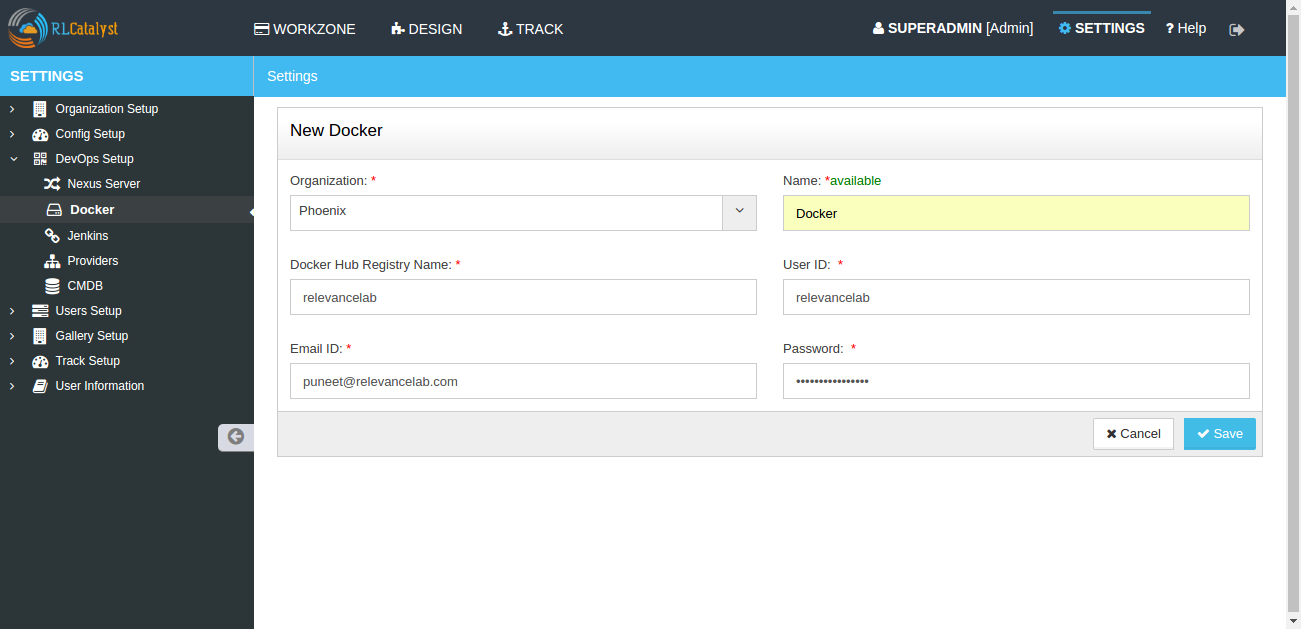
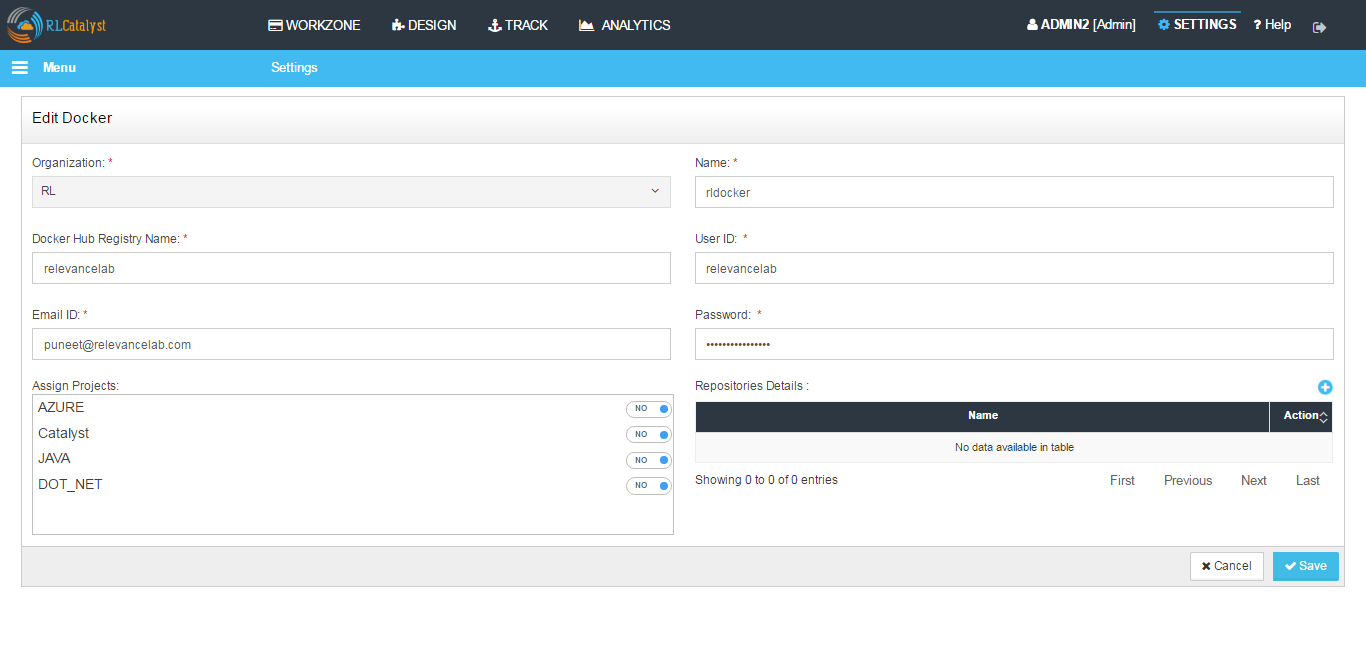
menu text in steps

diff --git a/Catalyst/source/configmanagement.rst b/Catalyst/source/configmanagement.rst
@@ -58,7 +58,7 @@ Docker is all about making it easier to create, deploy, and run applications by 
 You can configure the Docker setup with RLCatalyst. To configure the Docker setup follow the steps below:
 
  * From the main menu click on Settings
- * Once you click on Settings, from the side menu click on Devops Setup
+ * Once you click on Settings, from the side menu click on Devops Roles
  * Click on Docker
  * Click on New button provided 
  * Select the Organization from the Organization drop down list
@@ -67,6 +67,8 @@ You can configure the Docker setup with RLCatalyst. To configure the Docker setu
  * Provide the Docker user ID in the User ID field
  * Provide the email address to connect to the Docker in the Email Id field
  * Enter the Docker password in the Password field
+ * All assigned projects will display in Assign Projects field
+ * Add Repositories Details
 
  .. image:: /images/updated_img/createDocker.png
 
@@ -95,7 +97,7 @@ Jenkins
 Jenkins is CI/CD tool which can be used for build and deployment automation. You can configure the Jenkins setup with RLCatalyst.To configure the Jenkins setup follow the steps below:
 
  * From the main menu click on Settings
- * Once you click on Settings, from the side menu click on DevOps Setup
+ * Once you click on Settings, from the side menu click on DevOps Roles
  * Click on Jenkins
  * Click on New button provided 
  * Select the Organization to which the Jenkins server will be attached to

diff --git a/Catalyst/source/confsetupdefined.rst b/Catalyst/source/confsetupdefined.rst
@@ -33,7 +33,7 @@ Data/File needed for adding a Chef Server account in RLCatalyst
 To configure a new chef server follow the steps below:
 
  * From the main menu click on Settings
- * Once you click on Settings, from the side menu click on Config Setup
+ * Once you click on Settings, from the side menu click on Config Management
  * Click on Chef Server
  * Click on New button provided 
  * Enter the configuration name in the Name field
@@ -172,7 +172,7 @@ If you are using Puppet for your configuration management requirements, configur
 To configure a new puppet server follow the steps below:
 
  * From the main menu click on Settings
- * Once you click on Settings, from the side menu click on Config Setup
+ * Once you click on Settings, from the side menu click on Config Management
  * Click on Puppet Server
  * Click on New button provided 
  * Enter the puppet server name in the Name box
@@ -236,7 +236,7 @@ In an Organization you can create multiple Environments. These environments need
 Follow the steps to setup a new Environment in an Organization:
 
  * From the main menu click on Settings
- * Once you click on Settings, from the side menu click on Organization Setup
+ * Once you click on Settings, from the side menu click on Config Management
  * Click on Environments
  * Click on New button provided
  * Select the Organization from the Organization drop down list

diff --git a/Catalyst/source/orgsetupdefined.rst b/Catalyst/source/orgsetupdefined.rst
@@ -25,7 +25,7 @@ Through Setup & Configuration Wizard:
 Through Menu:
 
  * From the main menu click on Settings
- * Once you click on Settings, from the side menu click on Organization Setup
+ * Once you click on Settings, from the side menu click on Organization Configuration
  * Click Organizations
  * Click on New button provided 
  * In Create Organization page enter Name (Organization Name) and Domain Name (Website Address)
@@ -81,7 +81,7 @@ Through Setup & Configuration Wizard:
  Through Menu:
 
  * From the main menu click on Settings
- * Once you click on Settings, from the side menu click on Organization Setup
+ * Once you click on Settings, from the side menu click on Organization Configuration
  * Click on Business Groups
  * Click on New button provided 
  * Enter the Business Group name in the Business Group name field
@@ -130,7 +130,7 @@ Through Setup & Configuration Wizard:
  Through Menu:
 
  * From the main menu click on Settings
- * Once you click on Settings, from the side menu click on Organization Setup
+ * Once you click on Settings, from the side menu click on Organization Configuration
  * Click on Projects
  * Click on New button provided 
  * Enter the Project name in the Name field

diff --git a/Catalyst/source/providerdefined.rst b/Catalyst/source/providerdefined.rst
@@ -12,7 +12,7 @@ You can configure multiple cloud provider accounts  of type **AWS**, **AZURE**, 
 To configure the Providers setup follow the steps below:
 
  * From the main menu click on Settings
- * Once you click on Settings, from the side menu click on Devops Setup
+ * Once you click on Settings, from the side menu click on Provider Configuration
  * Click on Providers
  * Click on New button provided 
  * Select the provider from the Provider Type drop down list (e.g. AWS)
@@ -203,8 +203,8 @@ An image of a virtual machine is a copy of the VM, which may contain an OS, data
 **Adding a New VMImage**
 
  * From the main menu click on Settings
- * Once you click on Settings, from the side menu click on Gallery Setup
- * Click on VMImage
+ * Once you click on Settings, from the side menu click on Provider Configuration
+ * Click on VMImages
  * Click on New button provided  
  * Enter the image name in the Name field
  * Select the organization from the Organization drop down list

diff --git a/Catalyst/source/userdefined.rst b/Catalyst/source/userdefined.rst
@@ -13,7 +13,7 @@ You can add, update and remove Teams in RL Catalyst. Follow the steps below to A
 How to add a Team?
 
  * From the main menu click on Settings
- * Once you click on Settings, from the side menu click on User Setup
+ * Once you click on Settings, from the side menu click on Users Configuration
  * Click on Teams
  * Click on New button provided 
  * Enter the name for the team that you want to create in the Name field
@@ -76,7 +76,7 @@ You can add, update and remove users in RL Catalyst. Follow the steps below to A
 How to add a new user?
 
  * From the main menu click on Settings
- * Once you click on Settings, from the side menu click on User Setup
+ * Once you click on Settings, from the side menu click on Users Configuration
  * Click on Users
  * Click on New button provided 
  * Enter a login name in the Login Name field
